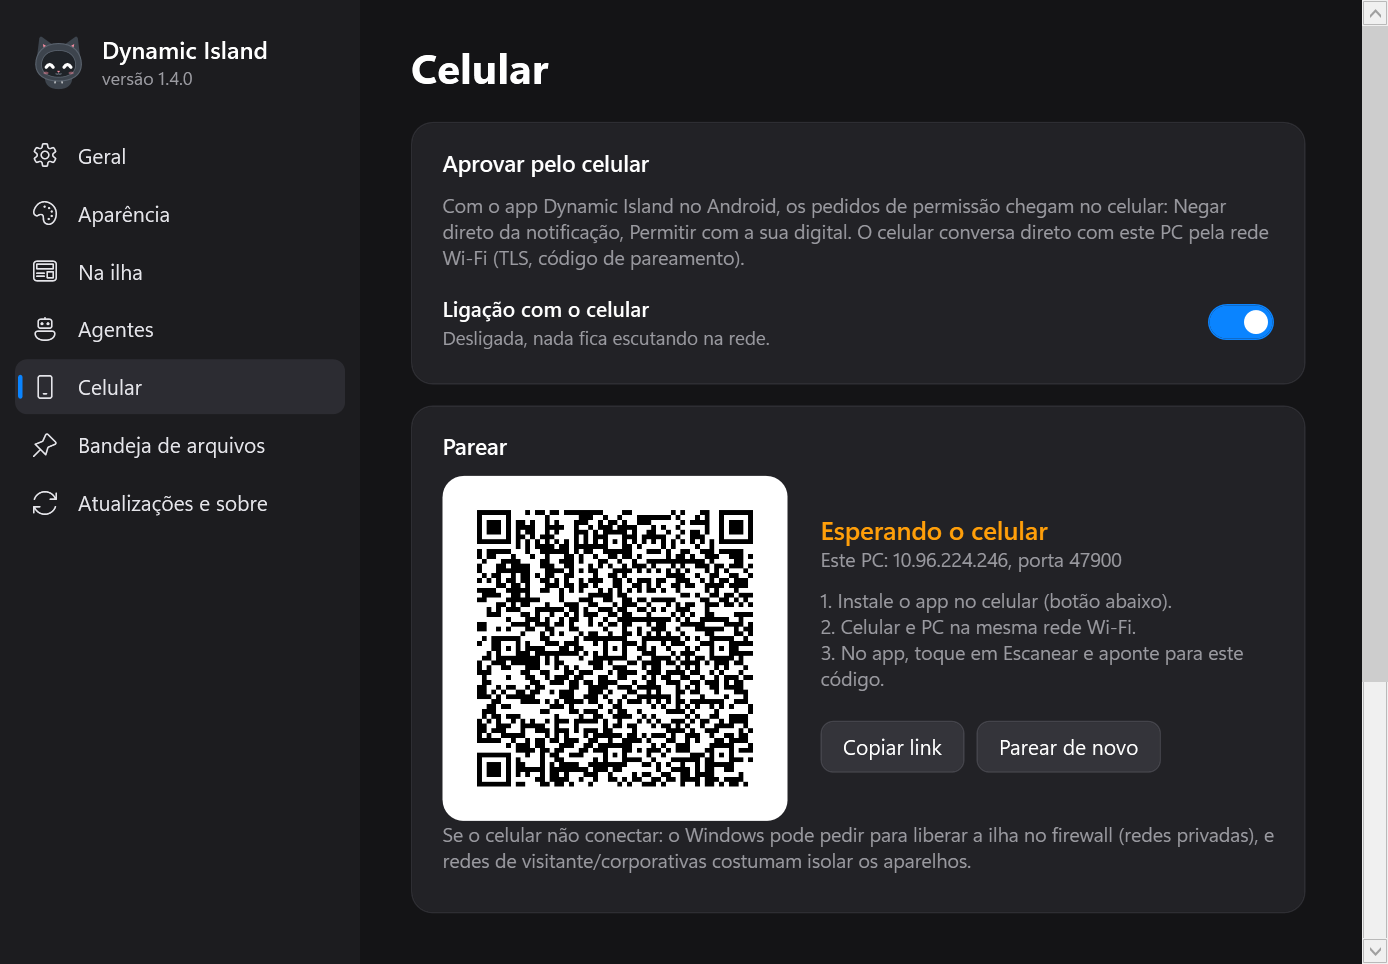
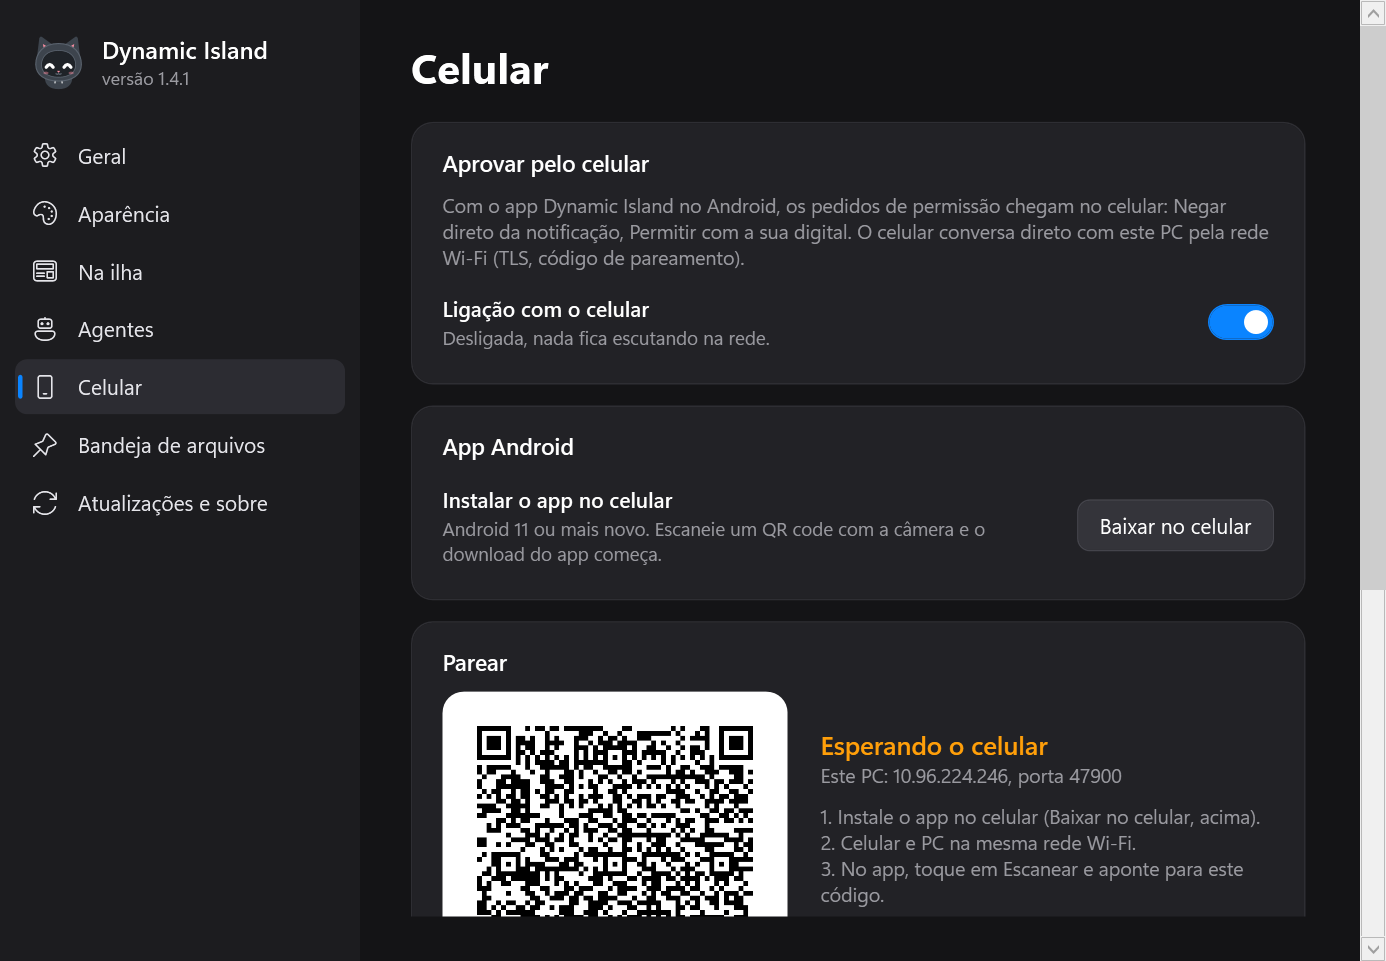
v1.4.1: QR code para baixar o app Android direto no celular

diff --git a/SettingsWindow.cs b/SettingsWindow.cs
@@ -15,6 +15,7 @@ namespace DynamicIsland;
 public sealed class SettingsWindow : Window
 {
     const string ReleasesUrl = "https://github.com/theuslpszbr15/dynamic-island-windows/releases/latest";
+    const string ApkUrl = ReleasesUrl + "/download/DynamicIsland-Android.apk";
 
     static readonly Brush Ground = Frozen(0xFF141416), Panel = Frozen(0xFF1C1C1F), CardBg = Frozen(0xFF222226),
         Line = Frozen(0xFF2E2E33), Muted = Frozen(0xFF9A9AA0), Accent = Frozen(0xFF0A84FF), Hover = Frozen(0xFF2A2A2F);
@@ -34,6 +35,7 @@ public sealed class SettingsWindow : Window
     readonly StackPanel _nav = new() { Margin = new Thickness(10, 8, 10, 10) };
     readonly ScrollViewer _scroll = new() { VerticalScrollBarVisibility = ScrollBarVisibility.Auto, Padding = new Thickness(34, 26, 34, 30) };
     string _page = "general";
+    bool _downloadQr;
 
     IslandSettings S => _app.Settings;
 
@@ -88,6 +90,12 @@ public sealed class SettingsWindow : Window
         if (Sections.All(s => s.Id != page)) return;
         _page = page;
         Render();
+    }
+
+    public void ShowDownloadQr()
+    {
+        _downloadQr = true;
+        Navigate("phone");
     }
 
     void Render()
@@ -275,6 +283,7 @@ public sealed class SettingsWindow : Window
             Note("Com o app Dynamic Island no Android, os pedidos de permissão chegam no celular: Negar direto da notificação, " +
                  "Permitir com a sua digital. O celular conversa direto com este PC pela rede Wi-Fi (TLS, código de pareamento)."),
             Toggle("Ligação com o celular", "Desligada, nada fica escutando na rede.", S.PhoneLink, _ => _app.TogglePhoneLink())));
+        page.Children.Add(InstallCard());
 
         if (S.PhoneLink && island.Phone is { Running: true } link)
         {
@@ -296,7 +305,7 @@ public sealed class SettingsWindow : Window
             side.Children.Add(Note(PhoneLink.LocalAddress() is { } ip
                 ? $"Este PC: {ip}, porta {link.Port}"
                 : "Sem rede local: conecte o PC ao Wi-Fi."));
-            side.Children.Add(Note("1. Instale o app no celular (botão abaixo).\n2. Celular e PC na mesma rede Wi-Fi.\n3. No app, toque em Escanear e aponte para este código."));
+            side.Children.Add(Note("1. Instale o app no celular (Baixar no celular, acima).\n2. Celular e PC na mesma rede Wi-Fi.\n3. No app, toque em Escanear e aponte para este código."));
             var buttons = new WrapPanel { Margin = new Thickness(0, 10, 0, 0) };
             var copy = new Button { Content = "Copiar link", Style = (Style)Resources["Action"], Margin = new Thickness(0, 0, 8, 8) };
             copy.Click += (_, _) => { try { Clipboard.SetText(url); } catch { } };
@@ -324,12 +333,41 @@ public sealed class SettingsWindow : Window
             page.Children.Add(Card("Parear", Note("A ligação não iniciou: " + (island.PhoneError ?? "erro desconhecido"))));
         }
 
-        var download = new Button { Content = "Baixar o app Android", Style = (Style)Resources["Action"] };
+        var download = new Button { Content = "Abrir no navegador", Style = (Style)Resources["Action"] };
         download.Click += (_, _) => Open(ReleasesUrl);
         page.Children.Add(Card("No celular",
             Toggle("Bandeja de arquivos no celular", "O celular vê os itens fixados na bandeja da ilha e pode abri-los neste PC (pede sua digital).",
                 S.PhoneTray, _ => _app.TogglePhoneTray()),
-            Row("App Android", "DynamicIsland-Android.apk na página de Releases (Android 11 ou mais novo).", download)));
+            Row("Página de Releases", "Todas as versões do app e da ilha.", download)));
+    }
+
+    // Step one: get the APK onto the phone by scanning a QR code with its camera.
+    Border InstallCard()
+    {
+        var toggle = new Button { Content = _downloadQr ? "Esconder QR code" : "Baixar no celular", Style = (Style)Resources["Action"] };
+        toggle.Click += (_, _) => { _downloadQr = !_downloadQr; Render(); };
+        var row = Row("Instalar o app no celular", "Android 11 ou mais novo. Escaneie um QR code com a câmera e o download do app começa.", toggle);
+        if (!_downloadQr) return Card("App Android", row);
+
+        var qr = new Border
+        {
+            Background = Brushes.White, CornerRadius = new CornerRadius(14), Padding = new Thickness(10), Margin = new Thickness(0, 6, 22, 0),
+            VerticalAlignment = VerticalAlignment.Top,
+            Child = new Image { Source = Qr(ApkUrl), Width = 190, Height = 190 },
+        };
+        var steps = new StackPanel { VerticalAlignment = VerticalAlignment.Center };
+        steps.Children.Add(new TextBlock { Text = "Aponte a câmera do celular", FontSize = 17, FontWeight = FontWeights.SemiBold, Margin = new Thickness(0, 0, 0, 8) });
+        steps.Children.Add(Note("1. Abra a câmera (ou o Google Lens) e toque no link que aparecer.\n" +
+                                "2. O navegador baixa DynamicIsland-Android.apk.\n" +
+                                "3. Abra o arquivo baixado. Na primeira vez o Android pede para permitir instalações do navegador.\n" +
+                                "4. Abra o app e pareie com o código de pareamento (abaixo)."));
+        var link = new TextBox { Text = ApkUrl, IsReadOnly = true, FontSize = 11.5, TextWrapping = TextWrapping.Wrap, Background = Hover, Foreground = Muted, BorderThickness = new Thickness(0), Padding = new Thickness(8, 6, 8, 6) };
+        steps.Children.Add(link);
+        var both = new DockPanel { Margin = new Thickness(0, 10, 0, 0) };
+        DockPanel.SetDock(qr, Dock.Left);
+        both.Children.Add(qr);
+        both.Children.Add(steps);
+        return Card("App Android", row, both);
     }
 
     void Tray(Panel page)

diff --git a/IslandWindow.Snapshots.cs b/IslandWindow.Snapshots.cs
@@ -304,9 +304,10 @@ public partial class IslandWindow
         ApplyPhoneLink();
         var settingsWindow = new SettingsWindow((App)Application.Current) { Left = 40, Top = 40 };
         settingsWindow.Show();
-        foreach (var section in new[] { "general", "look", "island", "agents", "phone", "tray", "updates" })
+        foreach (var section in new[] { "general", "look", "island", "agents", "phone", "tray", "updates", "phone-download" })
         {
-            settingsWindow.Navigate(section);
+            if (section == "phone-download") settingsWindow.ShowDownloadQr();
+            else settingsWindow.Navigate(section);
             await Task.Delay(700);
             var root = (FrameworkElement)settingsWindow.Content;
             var image = new RenderTargetBitmap((int)(root.ActualWidth * 1.5), (int)(root.ActualHeight * 1.5), 144, 144, PixelFormats.Pbgra32);
